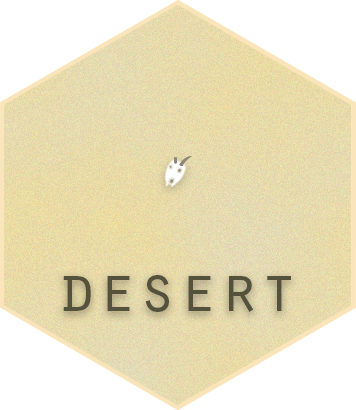
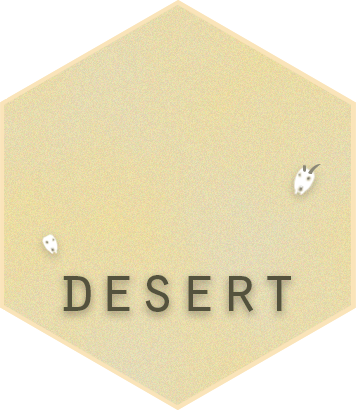
Graphics' display update
Precise hexagons rotations display.
Cleaned code
Updated graphics

Changed region(s): [[0.8034, 0.3805, 0.8961, 0.4976], [0.4635, 0.3805, 0.5253, 0.4683], [0.1236, 0.5561, 0.1854, 0.6146]]

diff --git a/src/Main.java b/src/Main.java
@@ -28,7 +28,8 @@ public class Main extends BasicGame{
 	
 	
 	
-	private Image[] img = new Image[19]; // Array for hexagon images
+	private Image[] hexImg = new Image[19]; // Array for hexagon images
+	private Image[] roadImg = new Image[4]; // Array for road images
 	static int scWidth = 1920; // Game screen width
 	static int scHeight = 1080; // Game screen height
 
@@ -65,7 +66,10 @@ public class Main extends BasicGame{
 	public void init(GameContainer gc) throws SlickException { // to initialize elements
 		// to initialize multiple images
 		for(int i=0; i<hexagons.length; i++){ //goes trough hexagon array
-			img[i] = new Image("resources/hexagon_" + (i) + ".png"); //Assigns every hexagon a name
+			hexImg[i] = new Image("resources/hexagon_" + (i) + ".png"); //Assigns every hexagon a name
+		}
+		for(int r=1; r<4; r++){
+			roadImg[r] = new Image("resources/road_" + (r) + ".png"); //initializing road images
 		}
 	}
 	
@@ -75,56 +79,69 @@ public class Main extends BasicGame{
 	@Override
 	public void render(GameContainer gc, Graphics g) throws SlickException
 	{
-		Color bkColor = Color.decode("#e5cea1"); // create custom color
-		g.setBackground(Color.black); // set background color
+		Color bkColor = Color.decode("#638fde"); // create custom color
+		g.setBackground(bkColor); // set background color
 		
 		// move out, since used only once in setup
 		float scFactor = 0.4f; // Dynamic setup: scales images according this value 
-		float padding = img[0].getWidth()/22*scFactor; // Dynamic setup: space between polygons
-		diameter = (img[0].getWidth()+ padding)*scFactor; // Dynamic setup: diameter according image width, + padding for space in between
-
+		float padding = hexImg[0].getWidth()/22*scFactor; // Dynamic setup: space between polygons
+		diameter = (hexImg[0].getWidth()+ padding)*scFactor; // Dynamic setup: diameter according image width, + padding for space in between
 		//end. move out, since used only once in setup
 		
+			// To display hexagons	
 			for (int i = 0; i<hexagons.length; i++){
 				
 				// center hexagon
 				if(i==0){
-					img[i].draw(scWidth/2-img[0].getWidth()/2*scFactor, scHeight/2-img[0].getHeight()/2*scFactor, scFactor); // draw center hexagon
+					hexImg[i].draw(scWidth/2-hexImg[0].getWidth()/2*scFactor, scHeight/2-hexImg[0].getHeight()/2*scFactor, scFactor); // draw center hexagon
 				}
 				
 				//middle circle of hexagons
 				if (i>0 && i<7){
 					xPos = (float) (diameter * Math.cos (angle(i))); // draw hexagon in curcular manner
 					yPos = (float) (diameter * Math.sin (angle(i)));	      
-					img[i].draw(xPos+scWidth/2-img[0].getWidth()/2*scFactor, yPos+scHeight/2-img[0].getHeight()/2*scFactor, scFactor);		
+					hexImg[i].draw(xPos+scWidth/2-hexImg[0].getWidth()/2*scFactor, yPos+scHeight/2-hexImg[0].getHeight()/2*scFactor, scFactor);	
+					
 					//myImage.draw(55, 66, 1.2f);
 				} 
 				
 				//outer circle of hexagons
 				if(i>6){
 					if(i%2!=0){
-						diameter = ( ((img[0].getWidth()*2)+padding) - img[0].getWidth()/4f )*scFactor; // Dynamic setup : diameter for outer polygons according image width. 3.8 is ~third of image that gets inside the cricle
+						diameter = ( ((hexImg[0].getWidth()*2)+padding) - hexImg[0].getWidth()/4f )*scFactor; // Dynamic setup : diameter for outer polygons according image width. 3.8 is ~third of image that gets inside the cricle
 						//diameter = 156;
 					}else{
-					diameter = (img[0].getWidth()*2)*scFactor+padding; // SOMETHING WRONG WIT HTHIS. Dynamic setup : diameter for outer polygons according image width
+					diameter = (hexImg[0].getWidth()*2)*scFactor+padding; // SOMETHING WRONG WIT HTHIS. Dynamic setup : diameter for outer polygons according image width
 					}
 					//angle +=0.524f;
 					
 			        xPos = (float) (diameter * Math.cos (angle(i))); 
 			        yPos = (float) (diameter * Math.sin (angle(i)));	      
-					img[i].draw(xPos+scWidth/2-img[0].getWidth()/2*scFactor, yPos+scHeight/2-img[0].getHeight()/2*scFactor, scFactor);	
+					hexImg[i].draw(xPos+scWidth/2-hexImg[0].getWidth()/2*scFactor, yPos+scHeight/2-hexImg[0].getHeight()/2*scFactor, scFactor);	
 				}
 				//g.drawString("Text", 250, 200);
-			}
+				
+				
+				//To display roads
+				for (int r =1; r<=36; r++){ //36 because there are 6 hexagons in middle circle and there can be 6 road for each 
+					xPos = (float) (diameter * Math.cos (angle(i))); // draw hexagon in circular manner
+					yPos = (float) (diameter * Math.sin (angle(i)));
+					
+					//roadImg[1].draw(xPos+scWidth/2, yPos+scHeight/2, scFactor);	
+					roadImg[1].setRotation(60f);
+					
+				}
+			} // End of display hexagons
+
 		}
 	// Function to calculate angle for each polygon
 	private float angle(int hexIndex){
 		if (hexIndex <=6){
 			// for inner
-			angle  = hexIndex * 1.048f; // 1.05f is specific angle for all polygons up to 7th.
+			angle  = hexIndex * 1.0472f; // 1.05f = 360/6 is specific angle for all polygons up to 7th.
 		}else
 			// for outer
-			angle  = hexIndex * 0.524f; // 0.524 for hexagons from 7th
+			angle  = hexIndex * 0.523599f; // 0.523599f = 360/12 for hexagons from 7th
 		return angle;
 	}
 
